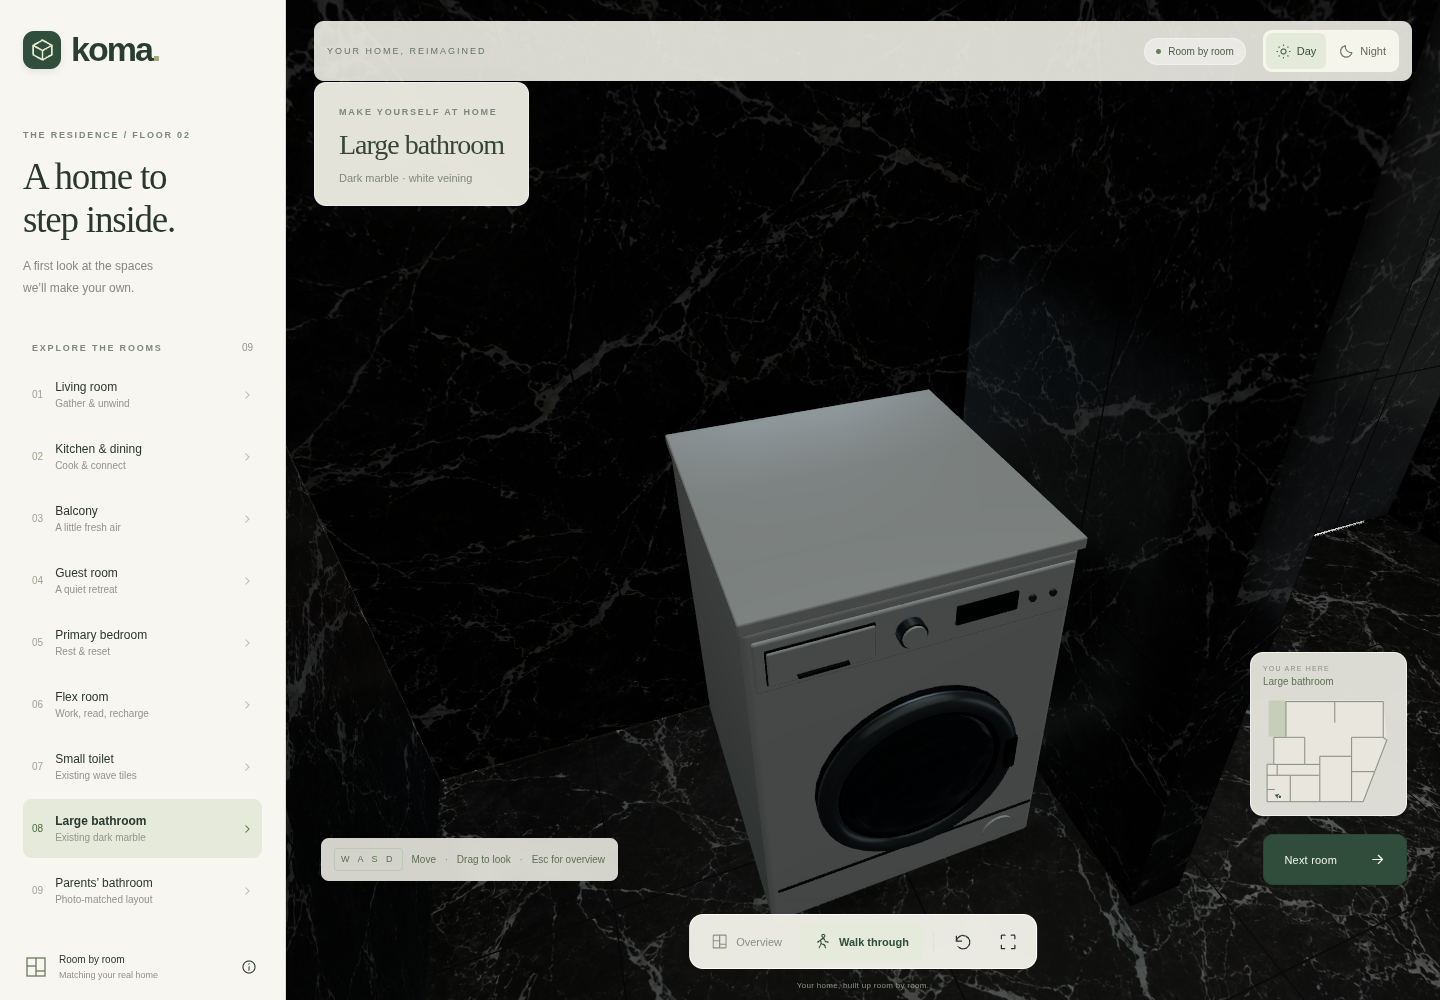
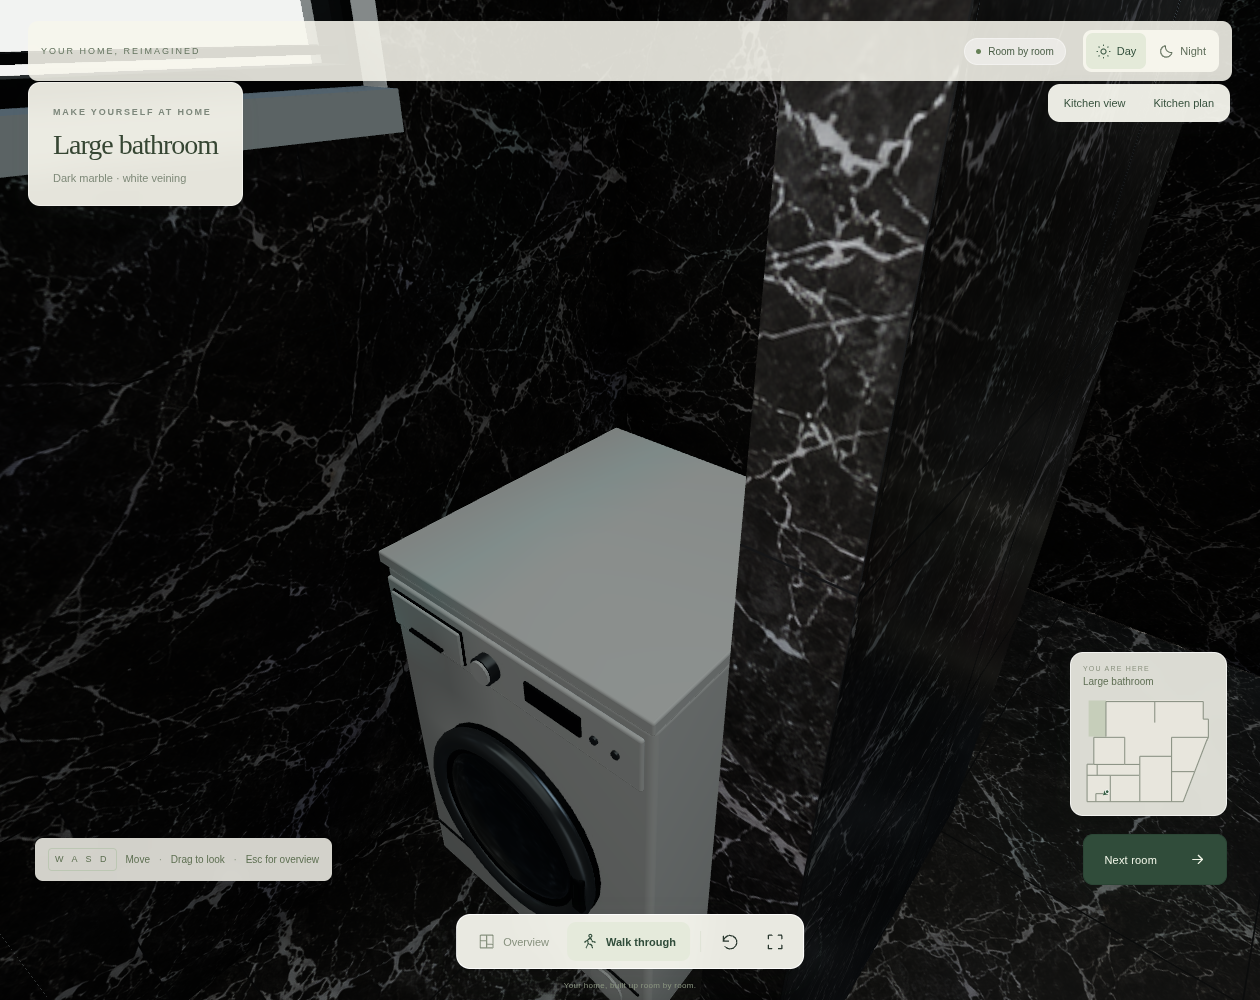
Match the bathroom laundry partition to the owner's sketch

diff --git a/src/main.js b/src/main.js
@@ -5,7 +5,7 @@ import { createRendering } from "./rendering.js";
 import { kitchenIsland, kitchenUnits } from "./kitchen-layout.js";
 import { livingTV } from "./additions.js";
 import { ensuitePlumbing } from "./ensuite-layout.js";
-import { largeBathroomDetails } from "./bathroom-details-layout.js";
+import { bathroomWasher } from "./bathroom-details-layout.js";
 import {
   rooms,
   walls,
@@ -66,7 +66,7 @@ document.querySelector("#app").innerHTML = `
     <div id="loading"><span class="loading-mark">${icon("volume")}</span><strong>Making room for you.</strong><span>Preparing your home…</span></div>
     <div id="toast" role="status"></div>
   </main>
-  <dialog id="about-dialog" aria-labelledby="about-title"><button id="close-about" class="icon-button dialog-close" aria-label="Close details">${icon("close")}</button><span class="eyebrow">ROOM BY ROOM</span><h2 id="about-title">A starting point.<br>A place for possibilities.</h2><p>The layout is traced from your <strong>koma-b.pdf</strong> floor plan. We are building up the rooms from your real space. The first additions are a 65-inch TV facing the living room and 5 cm floor-matching skirting outside the bathrooms. The 1 × 1 m grey floor tiles, black frames, shutter covers, small-toilet wave tiles, and dark marble in both bathrooms now follow your photos. The entrance and corridor ceiling is 40 cm below the main ceiling, ending at the living-room entrance, with a white AC grille, three warm magnetic LED tracks and one spotlight, plus a fourth long magnetic track in the corridor. Switch between Day and Night to see the lighting. The parents’ bathroom includes the continuous triangular tiled ledge, the white wall-hung toilet from your reference, and the existing plumbing positions. The small corridor WC now has a matching white wall-hung toilet. The large bathroom has the smaller, raised window shifted right, plus the service opening and plumbing details visible in your video. A washing machine sits inside the large bathroom around the tiled partition, with its front facing the open aisle.</p><p>The kitchen now has carved walnut cabinets, a beige stone island and three warm lanterns. The L-shaped cabinet run connects the solid wall beside the stairs to the sink beneath the two narrow windows. The sink recess and opening widths follow the original plan; the 1.20 m sill height is a provisional photo estimate approved by the owner. The 2.10 × 0.95 m island has a 1.10 m working aisle. Kitchen plan shows the fitted layout. The kitchen sink recess and its windows have been corrected to the PDF and photo; other rooms and openings are preserved.</p><dl><dt>Based on the plan</dt><dd>Room arrangement, the balcony, major openings, the angled façade, and the stairwell position.</dd><dt>Still to confirm</dt><dd>The main ceiling is assumed to be 2.80 m high; the confirmed 40 cm drop puts the corridor ceiling at 2.40 m in this model. The balcony doorway is estimated at 1.60 m wide from the tile grid and photos. The bathrooms share the photographed dark marble. Their 60 cm tile spacing is provisional; window heights and exact tile sizes still need measurements. Unphotographed rooms remain provisional.</dd><dt>One floor to explore</dt><dd>The stairs are shown for context. This walkthrough stays on the floor in the supplied plan; the stairwell is closed to walking.</dd></dl><p class="small-print">This is a design visualisation, not a measured survey or construction drawing.</p><button class="dialog-done" id="dialog-done">Back to exploring ${icon("arrow")}</button></dialog>
+  <dialog id="about-dialog" aria-labelledby="about-title"><button id="close-about" class="icon-button dialog-close" aria-label="Close details">${icon("close")}</button><span class="eyebrow">ROOM BY ROOM</span><h2 id="about-title">A starting point.<br>A place for possibilities.</h2><p>The layout is traced from your <strong>koma-b.pdf</strong> floor plan. We are building up the rooms from your real space. The first additions are a 65-inch TV facing the living room and 5 cm floor-matching skirting outside the bathrooms. The 1 × 1 m grey floor tiles, black frames, shutter covers, small-toilet wave tiles, and dark marble in both bathrooms now follow your photos. The entrance and corridor ceiling is 40 cm below the main ceiling, ending at the living-room entrance, with a white AC grille, three warm magnetic LED tracks and one spotlight, plus a fourth long magnetic track in the corridor. Switch between Day and Night to see the lighting. The parents’ bathroom includes the continuous triangular tiled ledge, the white wall-hung toilet from your reference, and the existing plumbing positions. The small corridor WC now has a matching white wall-hung toilet. The large bathroom has two windows: the existing raised window is retained, and the missing window has been added to the top wall marked in your rotated drawing. The second opening is provisionally 90 × 80 cm, with a 1.50 m sill. The service opening and plumbing details visible in your video remain. The old washer nook has been replaced by the L-shaped dark-tiled partition from your annotated drawing. The washer sits near the window, facing the open side on the left of your rotated overhead drawing. Wall lengths and thickness are provisional sketch estimates.</p><p>The kitchen now has carved walnut cabinets, a beige stone island and three warm lanterns. The L-shaped cabinet run connects the solid wall beside the stairs to the sink beneath the two narrow windows. The sink recess and opening widths follow the original plan; the 1.20 m sill height is a provisional photo estimate approved by the owner. The 2.10 × 0.95 m island has a 1.10 m working aisle. Kitchen plan shows the fitted layout. The kitchen sink recess and its windows have been corrected to the PDF and photo; other rooms and openings are preserved.</p><dl><dt>Based on the plan</dt><dd>Room arrangement, the balcony, major openings, the angled façade, and the stairwell position.</dd><dt>Still to confirm</dt><dd>The main ceiling is assumed to be 2.80 m high; the confirmed 40 cm drop puts the corridor ceiling at 2.40 m in this model. The balcony doorway is estimated at 1.60 m wide from the tile grid and photos. The bathrooms share the photographed dark marble. Their 60 cm tile spacing is provisional; window heights and exact tile sizes still need measurements. Unphotographed rooms remain provisional.</dd><dt>One floor to explore</dt><dd>The stairs are shown for context. This walkthrough stays on the floor in the supplied plan; the stairwell is closed to walking.</dd></dl><p class="small-print">This is a design visualisation, not a measured survey or construction drawing.</p><button class="dialog-done" id="dialog-done">Back to exploring ${icon("arrow")}</button></dialog>
 `;
 
 let renderer;
@@ -251,7 +251,7 @@ function visit(id) {
       : room.id === "ensuite"
         ? ensuitePlumbing.toilet
         : room.id === "bath"
-          ? largeBathroomDetails.manifold
+          ? bathroomWasher.point
           : room.id === "dining"
             ? [14.55, 3.75]
             : room.look;
@@ -262,7 +262,7 @@ function visit(id) {
       : room.id === "wc"
         ? -0.72
         : room.id === "bath"
-          ? -0.24
+          ? -0.72
           : -0.12;
   camera.rotation.set(pitch, yaw, 0, "YXZ");
   updateRoomUI(room);

diff --git a/tests/navigation.test.js b/tests/navigation.test.js
@@ -10,6 +10,7 @@ import {
   pointInPolygon,
   walls,
   SCALE,
+  laundryPartition,
 } from "../src/plan.js";
 import { skirtingRuns } from "../src/additions.js";
 import {
@@ -48,33 +49,72 @@ test("corridor WC toilet blocks walking while its doorway and room destination s
   assert.ok(approach.x < p(197, 1044)[0], "can enter the WC from the corridor");
 });
 
-test("laundry recess can be reached around its tiled return, while the washer blocks walking", () => {
+test("annotated L-shaped laundry nook has a reachable open side and frees the old washer corner", () => {
   const [x, z] = bathroomWasher.point;
   assert.equal(canOccupy(x, z, bathroomObstacles), false, "washer cabinet");
   assert.equal(
-    canOccupy(...p(150, 1225), bathroomObstacles),
+    canOccupy(laundryPartition.corner[0], 12.6, bathroomObstacles),
     false,
-    "tiled partition",
+    "west side wall",
   );
-  const aisle = p(206, 1175);
-  const around = moveWithCollision(
-    { x: aisle[0], z: aisle[1] },
-    0,
-    1.5,
-    bathroomObstacles,
+  assert.equal(
+    canOccupy(1.6, laundryPartition.corner[1], bathroomObstacles),
+    false,
+    "north return",
   );
-  assert.ok(around.z > p(104, 1225)[1] + 0.3, "walk around the return");
-  assert.ok(canOccupy(around.x, around.z, bathroomObstacles));
-  const approach = moveWithCollision(
-    { x: around.x, z },
-    -1.5,
-    0,
-    bathroomObstacles,
-  );
-  assert.ok(canOccupy(approach.x, approach.z, bathroomObstacles));
   assert.ok(
-    approach.x >= x + bathroomWasher.depth / 2 + 0.18,
-    "stop at washer front",
+    canOccupy(...p(150, 1225), bathroomObstacles),
+    "old partition removed",
+  );
+  assert.ok(
+    canOccupy(0.464, p(104, 1260)[1], bathroomObstacles),
+    "old washer corner clear",
+  );
+  assert.equal(
+    bathroomWasher.rotation,
+    Math.PI / 2,
+    "washer faces left in the rotated screenshot",
+  );
+  const entry = { x: 2.55, z: 10.16 };
+  const around = moveWithCollision(entry, 0, z - entry.z, bathroomObstacles);
+  assert.ok(
+    Math.abs(around.z - z) < 0.01,
+    "route from bathroom doorway around the open end",
+  );
+  const approach = moveWithCollision(around, -1, 0, bathroomObstacles);
+  assert.ok(canOccupy(approach.x, approach.z, bathroomObstacles));
+  assert.ok(approach.x < 2.3, "can approach the L through its open side");
+  assert.ok(
+    approach.x > x + bathroomWasher.depth / 2,
+    "stop at the washer front",
+  );
+  assert.ok(
+    x - bathroomWasher.depth / 2 >
+      laundryPartition.corner[0] + laundryPartition.thickness / 2,
+    "washer fits inside the side wall",
+  );
+  assert.ok(
+    z - bathroomWasher.width / 2 >
+      laundryPartition.corner[1] + laundryPartition.thickness / 2,
+    "washer clears the return",
+  );
+});
+
+test("both large bathroom windows stay clear of the corrected laundry partition", () => {
+  const original = walls[5].openings[0];
+  assert.equal(original.from, 135 / SCALE);
+  assert.equal(original.to, 190 / SCALE);
+  assert.equal(original.bottom, 1.5);
+  assert.equal(original.top, 2.3);
+  const added = walls[4].openings.find((o) => walls[4].a[0] - o.from < 2.86);
+  assert.ok(added, "second window on the marked southern wall");
+  assert.ok(Math.abs(added.to - added.from - 0.9) < 1e-9);
+  assert.equal(added.bottom, 1.5);
+  assert.equal(added.top, 2.3);
+  const westJamb = walls[4].a[0] - added.to;
+  assert.ok(
+    westJamb > laundryPartition.corner[0] + laundryPartition.thickness / 2,
+    "partition meets solid wall away from the second window",
   );
 });
 

diff --git a/src/plan.js b/src/plan.js
@@ -105,6 +105,27 @@ const metricWall = (a, b, openings = [], thickness = 0.22) => ({
   thickness,
   finishes: [],
 });
+// Owner's annotated overhead correction: replace the old southern laundry
+// return with an L open to the east (left in the rotated screenshot).
+// Dimensions are sketch estimates. The existing west window is retained;
+// the owner also confirmed a second window on the marked southern wall.
+export const laundryPartition = {
+  corner: [1.12, 12.05],
+  openEnd: [2.02, 12.05],
+  thickness: 0.12,
+};
+const marblePartition = (a, b) => {
+  const length = Math.hypot(b[0] - a[0], b[1] - a[1]);
+  return {
+    ...metricWall(a, b, [], laundryPartition.thickness),
+    finishes: [1, -1].map((side) => ({
+      from: 0,
+      to: length,
+      side,
+      material: "marbleBath",
+    })),
+  };
+};
 export const walls = [
   w(
     [278, 414],
@@ -135,7 +156,22 @@ export const walls = [
     [win(80, 188), win(401, 464, { bottom: 1.25, panels: 1 })],
     0.2,
   ),
-  w([990, 1337], [104, 1337], [win(178, 337), win(409, 502)], 0.2),
+  w(
+    [990, 1337],
+    [104, 1337],
+    [
+      win(178, 337),
+      win(409, 502),
+      // Missing second bathroom window at the owner's marked position.
+      // Centre X=2.20m, 90cm wide, 150cm sill: provisional sketch estimates.
+      win(887 - 2.65 * SCALE, 887 - 1.75 * SCALE, {
+        bottom: 1.5,
+        top: 2.3,
+        panels: 1,
+      }),
+    ],
+    0.2,
+  ),
   w(
     [104, 1337],
     [104, 992],
@@ -188,12 +224,11 @@ export const walls = [
   // Owner confirmed the outlined extension was never built. Retain only the
   // solid section shown on the plan, ending at reference y=608 (~2.65 m long).
   w([728, 414], [728, 608], [], 0.19),
-  // Video/owner: a tiled return conceals the laundry corner inside the large
-  // bathroom. Its 97 cm projection and position are provisional photo estimates.
-  w([104, 1225], [175, 1225], [], 0.12, [
-    { from: 0, to: 71, side: 1, material: "marbleBath" },
-    { from: 0, to: 71, side: -1, material: "marbleBath" },
-  ]),
+  // Keep index 23 stable while replacing the crossed-out return completely.
+  marblePartition(
+    [laundryPartition.corner[0], p(104, 1337)[1]],
+    laundryPartition.corner,
+  ),
   // Appended to keep established wall indices stable for finishes and fittings.
   {
     ...metricWall(
@@ -216,6 +251,7 @@ export const walls = [
     ),
     exteriorSide: -1,
   },
+  marblePartition(laundryPartition.corner, laundryPartition.openEnd),
 ];
 // Bathroom finishes are shared by owner confirmation. Ranges are clipped to
 // each room; adjacent rooms retain their existing surfaces.
@@ -372,7 +408,7 @@ export const rooms = [
     name: "Large bathroom",
     category: "Existing dark marble",
     size: "Dark marble · white veining",
-    point: p(278, 1150),
+    point: [2.55, 12.53],
     look: p(125, 1260),
     bounds: [104, 1094, 318, 1337],
   },

diff --git a/src/bathroom-details-layout.js b/src/bathroom-details-layout.js
@@ -8,13 +8,11 @@ export const corridorToilet = {
   projection: 0.53,
   height: 0.43,
 };
-// Owner confirmed the washer is inside the bathroom around the tiled return.
-// A generic 60 cm front-loader; exact product and recess dimensions unmeasured.
+// Owner's annotated correction: washer inside the new L near the window,
+// facing its open eastern side (left in the owner’s screenshot). Product and partition dimensions provisional.
 export const bathroomWasher = {
-  point: [
-    walls[5].a[0] + walls[5].thickness / 2 + 0.04 + 0.31,
-    p(104, 1260)[1],
-  ],
+  point: [1.68, 12.53],
+  rotation: Math.PI / 2,
   width: 0.6,
   depth: 0.62,
   height: 0.85,

diff --git a/tests/browser/walkthrough.spec.js b/tests/browser/walkthrough.spec.js
@@ -201,6 +201,9 @@ test("mobile rooms and a touch joystick work without horizontal overflow", async
 test("day and night persist across view changes and shared links without moving the visitor", async ({
   page,
 }) => {
+  // Both sets of room reflections and full-resolution screenshots run in
+  // software WebGL; allow the same rendering budget as the full room tour.
+  test.setTimeout(90000);
   const errors = [];
   page.on("pageerror", (error) => errors.push(error.message));
   await ready(page, "./#room=dining&lighting=night");

diff --git a/src/bathroom-details.js b/src/bathroom-details.js
@@ -164,7 +164,7 @@ export function buildBathroomDetails(parent, finishes) {
   const rim = new THREE.TorusGeometry(0.029, 0.003, 6, 28);
   rim.rotateX(-Math.PI / 2);
   add(drain, rim, mortar, 0, 0.011, 0);
-  const washer = mount(bathroomWasher.point, Math.PI / 2, (point) =>
+  const washer = mount(bathroomWasher.point, bathroomWasher.rotation, (point) =>
     wallUV(5, point),
   );
   bathMaterials.push(

diff --git a/README.md b/README.md
@@ -6,7 +6,7 @@ A view-only Three.js walkthrough reconstructed from `koma-b.pdf`. Visitors can w
 
 ![Inside the living room](docs/living-room.png)
 
-Photo-matched details: [large bathroom](docs/large-bathroom.png) · [parents’ bathroom](docs/parents-bathroom.png) · [balcony doorway](docs/balcony-door.png) · [corridor toilet](docs/corridor-wc.png) · [bathroom laundry recess](docs/bathroom-laundry.png).
+Photo-matched details: [large bathroom](docs/large-bathroom.png) · [parents’ bathroom](docs/parents-bathroom.png) · [balcony doorway](docs/balcony-door.png) · [corridor toilet](docs/corridor-wc.png) · [bathroom laundry recess](docs/bathroom-laundry.png) · [corrected L-shaped partition plan](docs/bathroom-laundry-plan.png).
 
 Entrance lighting: [day](docs/entrance-day.png) · [night](docs/entrance-night.png) · [corridor](docs/corridor-night.png).
 
@@ -54,7 +54,7 @@ Daylight is baked through the actual openings with four diffuse bounces, so ligh
 - A **65-inch (16:9)** TV is mounted on the divider facing the living room. The active screen is approximately **1.439 × 0.809 m**, with a slim bezel, wall bracket and reflective switched-off screen. Screen centre is initially **1.15 m above the floor**; mounting height is adjustable. The living-room destination faces the TV. Dimensions and skirting runs live in `src/additions.js`.
 - The balcony slider is **approximately 1.60 m frame to frame**, estimated from the tiles/photo proportions. It is shown half open; collision blocks the stacked glass leaves and leaves the other half walkable.
 - The separate small WC opposite the stairs has white horizontal-wave tiles, a charcoal window wall and a white wall-hung toilet below the window, using the rounded closed-lid style selected for the parents’ bathroom. Its 53 cm projection, 36 cm width and 43 cm height are provisional. Collision keeps visitors outside the bowl while preserving entry from the corridor.
-- The large bathroom window is smaller, higher and shifted right when facing the window wall, following the owner's video correction. The modeled opening is approximately **75 × 80 cm with a 1.50 m sill**, pending measurements. The video also informs the low open pipe-manifold panel, paired basin rough-ins beside the entrance and unfinished floor drain; these positions and pipe counts are illustrative estimates. Both marble bathrooms use a softer charcoal base and pale veining, with a brighter daytime camera exposure for the large bathroom. The owner confirmed that the washing machine is inside the bathroom, around a tiled partition. The provisional layout has a 97 cm tiled return from the window wall and a generic **60 cm wide × 62 cm deep × 85 cm high** front-loading washer behind it, facing the open aisle. The exact return location/length and appliance dimensions need on-site confirmation. Both the partition and appliance block walking, and the washer is included in the lighting bake. No new sinks or showers are selected.
+- The large bathroom has **two windows**, as clarified by the owner. The existing western/right-hand window stays at approximately **75 × 80 cm with a 1.50 m sill**. A second window is added on the southern/top wall at the position marked in the rotated screenshot: provisionally **90 × 80 cm with a 1.50 m sill**. Exact sizes and elevations await measurements. The video also informs the low open pipe-manifold panel, paired basin rough-ins beside the entrance and unfinished floor drain; these positions and pipe counts are illustrative estimates. Both marble bathrooms use a softer charcoal base and pale veining, with a brighter daytime camera exposure for the large bathroom. The owner confirmed that the washing machine is inside the bathroom, around a tiled partition. The owner’s latest annotated overhead drawing replaces the old southern washer corner with an **L-shaped dark-tiled partition near the window**, open toward the east (left in the owner’s rotated screenshot). Its two centre-line legs are approximately **101 cm and 90 cm**, **12 cm thick**, at the existing **280 cm** main ceiling height. These are provisional sketch estimates. The generic **60 cm wide × 62 cm deep × 85 cm high** washer is relocated into the L and rotated to face its open side; the old appliance position and partition are clear. The washer front has approximately **83 cm** to the eastern wall, with a roughly **78 cm** route past the end of the partition. The existing window and bathroom footprint stay unchanged; the second marked window is restored. Exact partition and appliance dimensions need on-site confirmation. Both the partition and appliance block walking, and the washer is included in the lighting bake. No new sinks or showers are selected.
 - Both the large bathroom and parents’ bathroom use the same dark marble-look porcelain, confirmed by the owner. The albedo texture in `src/assets/dark-marble.png` is generated from the supplied reference, not an exact scan of the installed tiles. Walls are polished and floors less glossy. The **60 × 60 cm bathroom tile grid is provisional**; the living-area one-metre dimension is not assumed for these tiles.
 - The parents’ bathroom follows the owner’s confirmed doorway viewpoint: **toilet/window ahead, basin left, shower right**. A triangular dark-tiled cistern box straightens the angled façade below the window and continues to the left wall. The owner’s reference toilet is modeled in white glazed ceramic with a closed D-shaped lid, rounded underside and two rear hinges, wall-mounted at the existing connection point. Its **53 cm projection, 36 cm width and 43 cm closed-lid height are estimates**, pending product measurements. The protective flush access cover, basin connections, shower outlets and square floor drain remain visible; the remaining fittings have not been selected. The box height (**1.12 m**), window sill (**1.25 m**), box depth and plumbing coordinates are photo estimates. `src/ensuite-layout.js` records these separately from the confirmed relative arrangement; the boxing has its own daylight bake, and both the box and toilet block walking while leaving the basin and shower accessible.
 - The exterior is a neutral sky gradient; the surrounding buildings have not been reconstructed.
